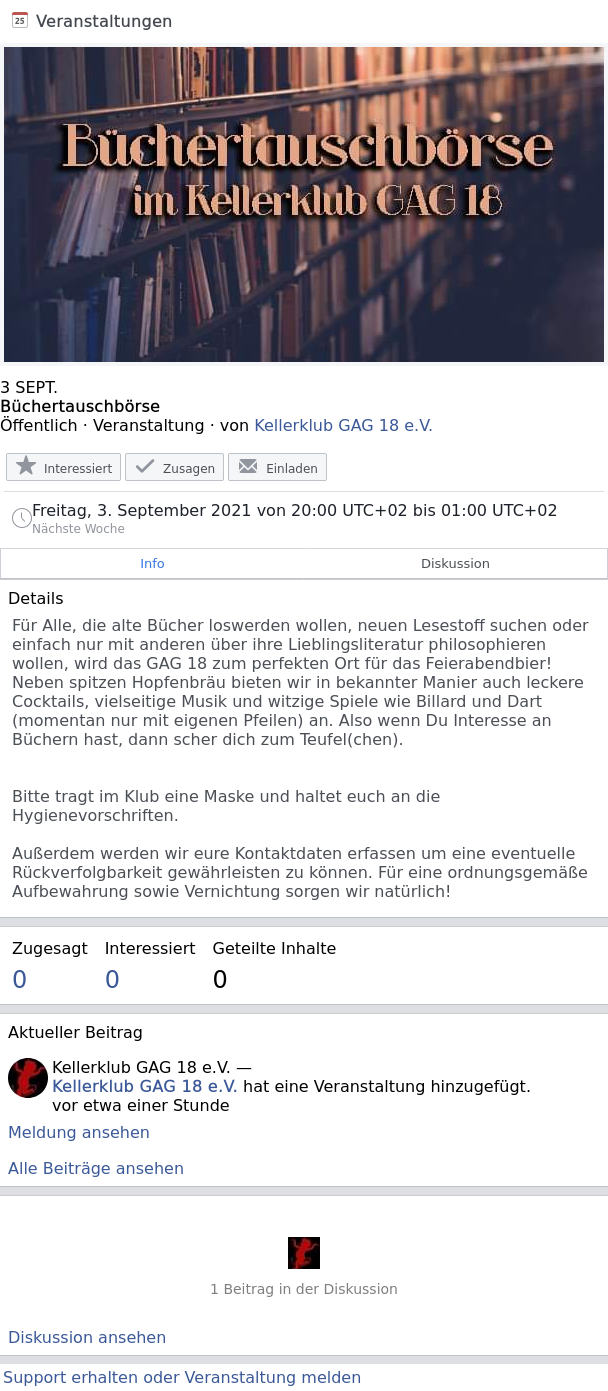
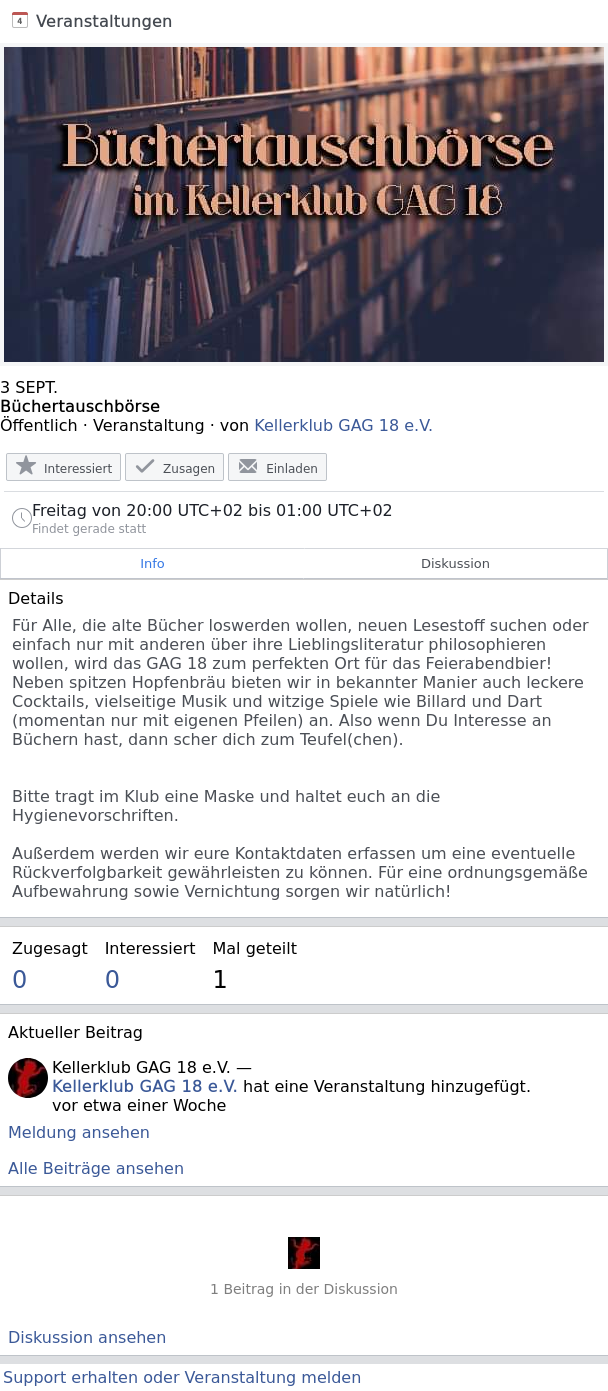
update events

diff --git a/README.md b/README.md
@@ -1,20 +1,3 @@
-### Büchertauschbörse
-
-**Beginn:** Fr 03.09.2021, 20:00+0200\
-**Ende:** Sa 04.09.2021, 01:00+0200\
-**Ort:** None\
-**Link:** <https://mbasic.facebook.com/events/261945075539868>\
-**Screenshot:**
-[facebook.com-events-261945075539868.png](facebook.com-events-261945075539868.png)
-
-> Für Alle, die alte Bücher loswerden wollen, neuen Lesestoff suchen oder einfach nur mit anderen über ihre Lieblingsliteratur philosophieren wollen, wird das GAG 18 zum perfekten Ort für das Feierabendbier! Neben spitzen Hopfenbräu bieten wir in bekannter Manier auch leckere Cocktails, vielseitige Musik und witzige Spiele wie Billard und Dart (momentan nur mit eigenen Pfeilen) an. Also wenn Du Interesse an Büchern hast, dann scher dich zum Teufel(chen).
->
-> Bitte tragt im Klub eine Maske und haltet euch an die Hygienevorschriften.
->
-> Außerdem werden wir eure Kontaktdaten erfassen um eine eventuelle Rückverfolgbarkeit gewährleisten zu können. Für eine ordnungsgemäße Aufbewahrung sowie Vernichtung sorgen wir natürlich!
-
-------------------------------------------------------------------------
-
 ### Nerd Out!
 
 **Beginn:** Mo 06.09.2021, 20:00+0200\
@@ -63,6 +46,23 @@
 > This spanish artist presents her solo project.\
 > A guitar and a voice. The soundtrack to your life.\
 > An intimate ceremony for the senses.
+
+------------------------------------------------------------------------
+
+### Büchertauschbörse
+
+**Beginn:** Fr 10.09.2021, 20:00+0200\
+**Ende:** Sa 11.09.2021, 01:00+0200\
+**Ort:** None\
+**Link:** <https://mbasic.facebook.com/events/261945075539868>\
+**Screenshot:**
+[facebook.com-events-261945075539868.png](facebook.com-events-261945075539868.png)
+
+> Für Alle, die alte Bücher loswerden wollen, neuen Lesestoff suchen oder einfach nur mit anderen über ihre Lieblingsliteratur philosophieren wollen, wird das GAG 18 zum perfekten Ort für das Feierabendbier! Neben spitzen Hopfenbräu bieten wir in bekannter Manier auch leckere Cocktails, vielseitige Musik und witzige Spiele wie Billard und Dart (momentan nur mit eigenen Pfeilen) an. Also wenn Du Interesse an Büchern hast, dann scher dich zum Teufel(chen).
+>
+> Bitte tragt im Klub eine Maske und haltet euch an die Hygienevorschriften.
+>
+> Außerdem werden wir eure Kontaktdaten erfassen um eine eventuelle Rückverfolgbarkeit gewährleisten zu können. Für eine ordnungsgemäße Aufbewahrung sowie Vernichtung sorgen wir natürlich!
 
 ------------------------------------------------------------------------
 
